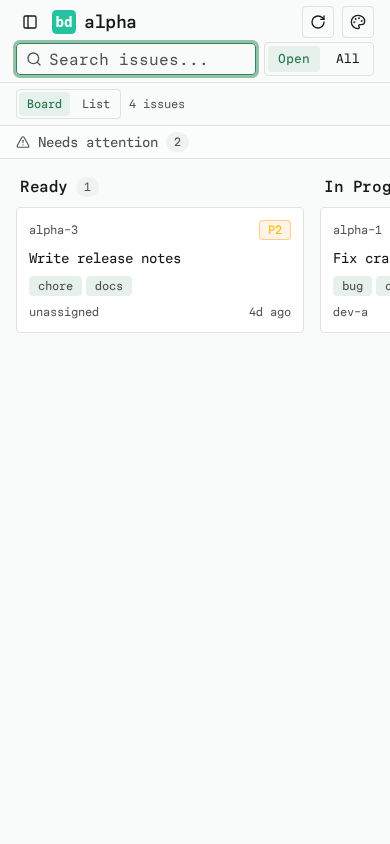
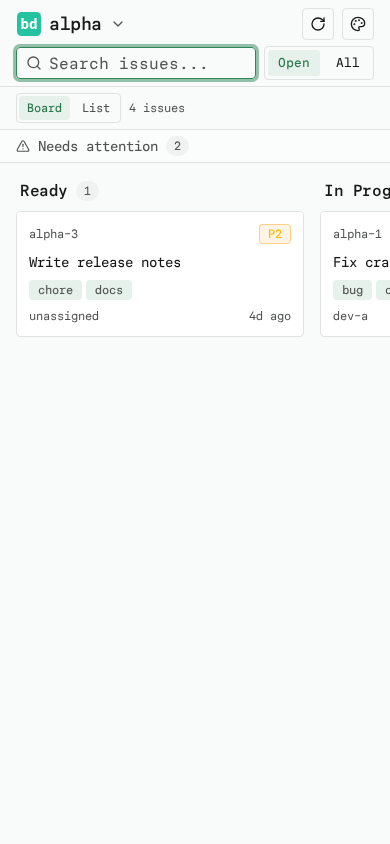
fix: open mobile projects from the header picker

diff --git a/tests/e2e/branding.spec.ts b/tests/e2e/branding.spec.ts
@@ -85,9 +85,18 @@ for (const width of [390, 1280]) {
     });
     await page.goto("/");
     if (width < 768) {
-      await page.getByRole("button", { name: "Toggle Sidebar" }).click();
+      const picker = page.getByRole("button", { name: "Choose project" });
+      await expect(picker).toBeVisible();
+      await expect(picker).toContainText(name);
+      await expect(picker.locator("span").filter({ hasText: name })).toHaveCSS("text-overflow", "ellipsis");
+      expect(
+        await picker.locator("span").filter({ hasText: name }).evaluate((element) => element.scrollWidth > element.clientWidth),
+      ).toBe(true);
+      expect(await page.evaluate(() => document.documentElement.scrollWidth)).toBe(width);
+      await picker.click();
     }
-    const project = page.getByRole("button", { name: new RegExp(name) });
+    const sidebar = width < 768 ? page.getByRole("dialog") : page.locator('[data-slot="sidebar"]');
+    const project = sidebar.getByRole("button", { name: new RegExp(name) });
     await expect(project).toBeVisible();
     await expect(project).toHaveAttribute("title", name);
     const label = project.locator("span");
@@ -143,7 +152,7 @@ for (const width of [360, 390, 768]) {
     await expect(drawer.getByText("Fix merged in #42")).toBeVisible();
     await page.keyboard.press("Escape");
     if (width < 768) {
-      await page.getByRole("button", { name: "Toggle Sidebar" }).click();
+      await page.getByRole("button", { name: "Choose project" }).click();
       const sidebar = page.getByRole("dialog");
       await expect(sidebar.getByRole("img", { name: "Beads" })).toBeVisible();
       await page.evaluate(() => document.fonts.ready);
@@ -159,3 +168,56 @@ for (const width of [360, 390, 768]) {
     await expect(page.getByRole("heading", { name: "beta", exact: true })).toBeVisible();
   });
 }
+
+test.describe("mobile project picker", () => {
+  test("keyboard opens the sidebar and Escape returns focus", async ({ page }) => {
+    await page.setViewportSize({ width: 390, height: 844 });
+    await page.goto("/");
+    const picker = page.getByRole("button", { name: "Choose project" });
+    await expect(picker).toBeVisible();
+    await expect(picker.locator("span")).toHaveText("alpha");
+    const gaps = await picker.evaluate((element) => {
+      const logo = element.querySelector("img")!.getBoundingClientRect();
+      const name = element.querySelector("span")!.getBoundingClientRect();
+      const chevron = element.querySelector("svg")!.getBoundingClientRect();
+      return [name.left - logo.right, chevron.left - name.right];
+    });
+    for (const gap of gaps) expect(gap).toBeCloseTo(8, 0);
+    await expect(page.getByRole("button", { name: "Toggle Sidebar", exact: true })).toHaveCount(0);
+    await expect(picker).toHaveAttribute("aria-haspopup", "dialog");
+    await expect(picker).toHaveAttribute("aria-expanded", "false");
+    await picker.focus();
+    await picker.press("Enter");
+    const sidebar = page.getByRole("dialog");
+    await expect(sidebar).toBeVisible();
+    // The open dialog makes the header inert, so read the expanded state from the DOM.
+    await expect(page.locator('button[aria-haspopup="dialog"][aria-expanded="true"]')).toHaveCount(1);
+    await page.keyboard.press("Escape");
+    await expect(sidebar).toHaveCount(0);
+    await expect(picker).toBeFocused();
+    await expect(picker).toHaveAttribute("aria-expanded", "false");
+  });
+
+  test("choosing a project updates the header picker and heading", async ({ page }) => {
+    await page.setViewportSize({ width: 390, height: 844 });
+    await page.goto("/");
+    await page.getByRole("button", { name: "Choose project" }).click();
+    const sidebar = page.getByRole("dialog");
+    await sidebar.getByRole("button", { name: /^beta/ }).click();
+    await page.keyboard.press("Escape");
+    await expect(page.getByRole("button", { name: /Choose project: beta/ })).toBeVisible();
+    await expect(page.getByRole("heading", { name: "beta", exact: true })).toBeVisible();
+  });
+
+  test("desktop keeps the sidebar collapse trigger and project heading", async ({ page }) => {
+    await page.setViewportSize({ width: 1280, height: 800 });
+    await page.goto("/");
+    const trigger = page.getByRole("button", { name: "Toggle Sidebar", exact: true });
+    await expect(trigger).toBeVisible();
+    await expect(page.getByRole("button", { name: "Choose project" })).toHaveCount(0);
+    await expect(page.getByRole("heading", { name: "alpha", exact: true })).toBeVisible();
+    await trigger.click();
+    await expect(trigger).toBeVisible();
+    await expect(page.getByRole("heading", { name: "alpha", exact: true })).toBeVisible();
+  });
+});

diff --git a/src/components/dashboard.tsx b/src/components/dashboard.tsx
@@ -3,7 +3,7 @@
 import { useEffect, useRef, useState } from "react";
 import Image from "next/image";
 import { usePathname, useRouter, useSearchParams } from "next/navigation";
-import { RotateCwIcon, SearchIcon } from "lucide-react";
+import { ChevronDownIcon, RotateCwIcon, SearchIcon } from "lucide-react";
 import { Board } from "@/components/board";
 import { readDeepLink, withDeepLink } from "@/lib/navigation";
 import { IssueDrawer } from "@/components/issue-drawer";
@@ -26,6 +26,7 @@ import {
   SidebarMenuItem,
   SidebarProvider,
   SidebarTrigger,
+  useSidebar,
 } from "@/components/ui/sidebar";
 import type { BeadsIssue, IssueListResponse, Project } from "@/lib/types";
 
@@ -43,6 +44,37 @@ function matchesSearch(issue: BeadsIssue, query: string): boolean {
     issue.id.toLowerCase().includes(q) ||
     issue.title.toLowerCase().includes(q) ||
     (issue.labels ?? []).some((label) => label.toLowerCase().includes(q))
+  );
+}
+
+// Mobile-only replacement for the desktop SidebarTrigger + heading: one button
+// (logo, truncated project name, chevron) that opens the mobile sidebar sheet.
+// Must stay inside SidebarProvider, so it lives here rather than in ui/.
+function ProjectPickerButton({ name }: { name: string | null }) {
+  const { openMobile, setOpenMobile } = useSidebar();
+  return (
+    <Button
+      variant="ghost"
+      size="lg"
+      className="min-w-0 flex-1 justify-start gap-2 px-0 md:hidden"
+      aria-haspopup="dialog"
+      aria-expanded={openMobile}
+      aria-label={`Choose project: ${name ?? "View Beads"}`}
+      onClick={() => setOpenMobile(true)}
+    >
+      <Image
+        src="/brand/beads.svg"
+        alt="Beads"
+        width={24}
+        height={24}
+        unoptimized
+        className="shrink-0"
+      />
+      <span className="min-w-0 truncate text-lg font-semibold tracking-tight">
+        {name ?? "View Beads"}
+      </span>
+      <ChevronDownIcon className="size-4 shrink-0 text-muted-foreground" />
+    </Button>
   );
 }
 
@@ -266,9 +298,9 @@ export function Dashboard() {
       <SidebarInset className="flex min-h-0 min-w-0 flex-col gap-0">
         <header className="flex shrink-0 flex-col border-b px-4 py-1.5">
           <div className="flex min-w-0 items-center gap-2">
-            <SidebarTrigger />
-            <Image src="/brand/beads.svg" alt="Beads" width={24} height={24} unoptimized className="md:hidden" />
-            <h1 className="min-w-0 flex-1 truncate text-lg font-semibold tracking-tight lg:text-xl">
+            <SidebarTrigger className="hidden md:inline-flex" />
+            <ProjectPickerButton name={selectedProject?.name ?? null} />
+            <h1 className="max-md:sr-only min-w-0 flex-1 truncate text-lg font-semibold tracking-tight lg:text-xl">
               {selectedProject?.name ?? "View Beads"}
             </h1>
             <div className="relative ml-auto hidden w-64 lg:block">

diff --git a/tests/e2e/scope.spec.ts b/tests/e2e/scope.spec.ts
@@ -41,9 +41,12 @@ for (const width of [1280, 390]) {
     expect.soft(await page.evaluate(() => document.documentElement.scrollHeight)).toBe(800);
     const controls = [
       page.getByRole("searchbox"),
-      ...["Open", "All", "Refresh", "Change theme", "Toggle Sidebar"].map(
+      ...["Open", "All", "Refresh", "Change theme"].map(
         (name) => page.getByRole("button", { name, exact: true }),
       ),
+      width < 768
+        ? page.getByRole("button", { name: "Choose project" })
+        : page.getByRole("button", { name: "Toggle Sidebar", exact: true }),
     ];
     for (const control of controls) {
       await expect(control).toBeInViewport({ ratio: 1 });
